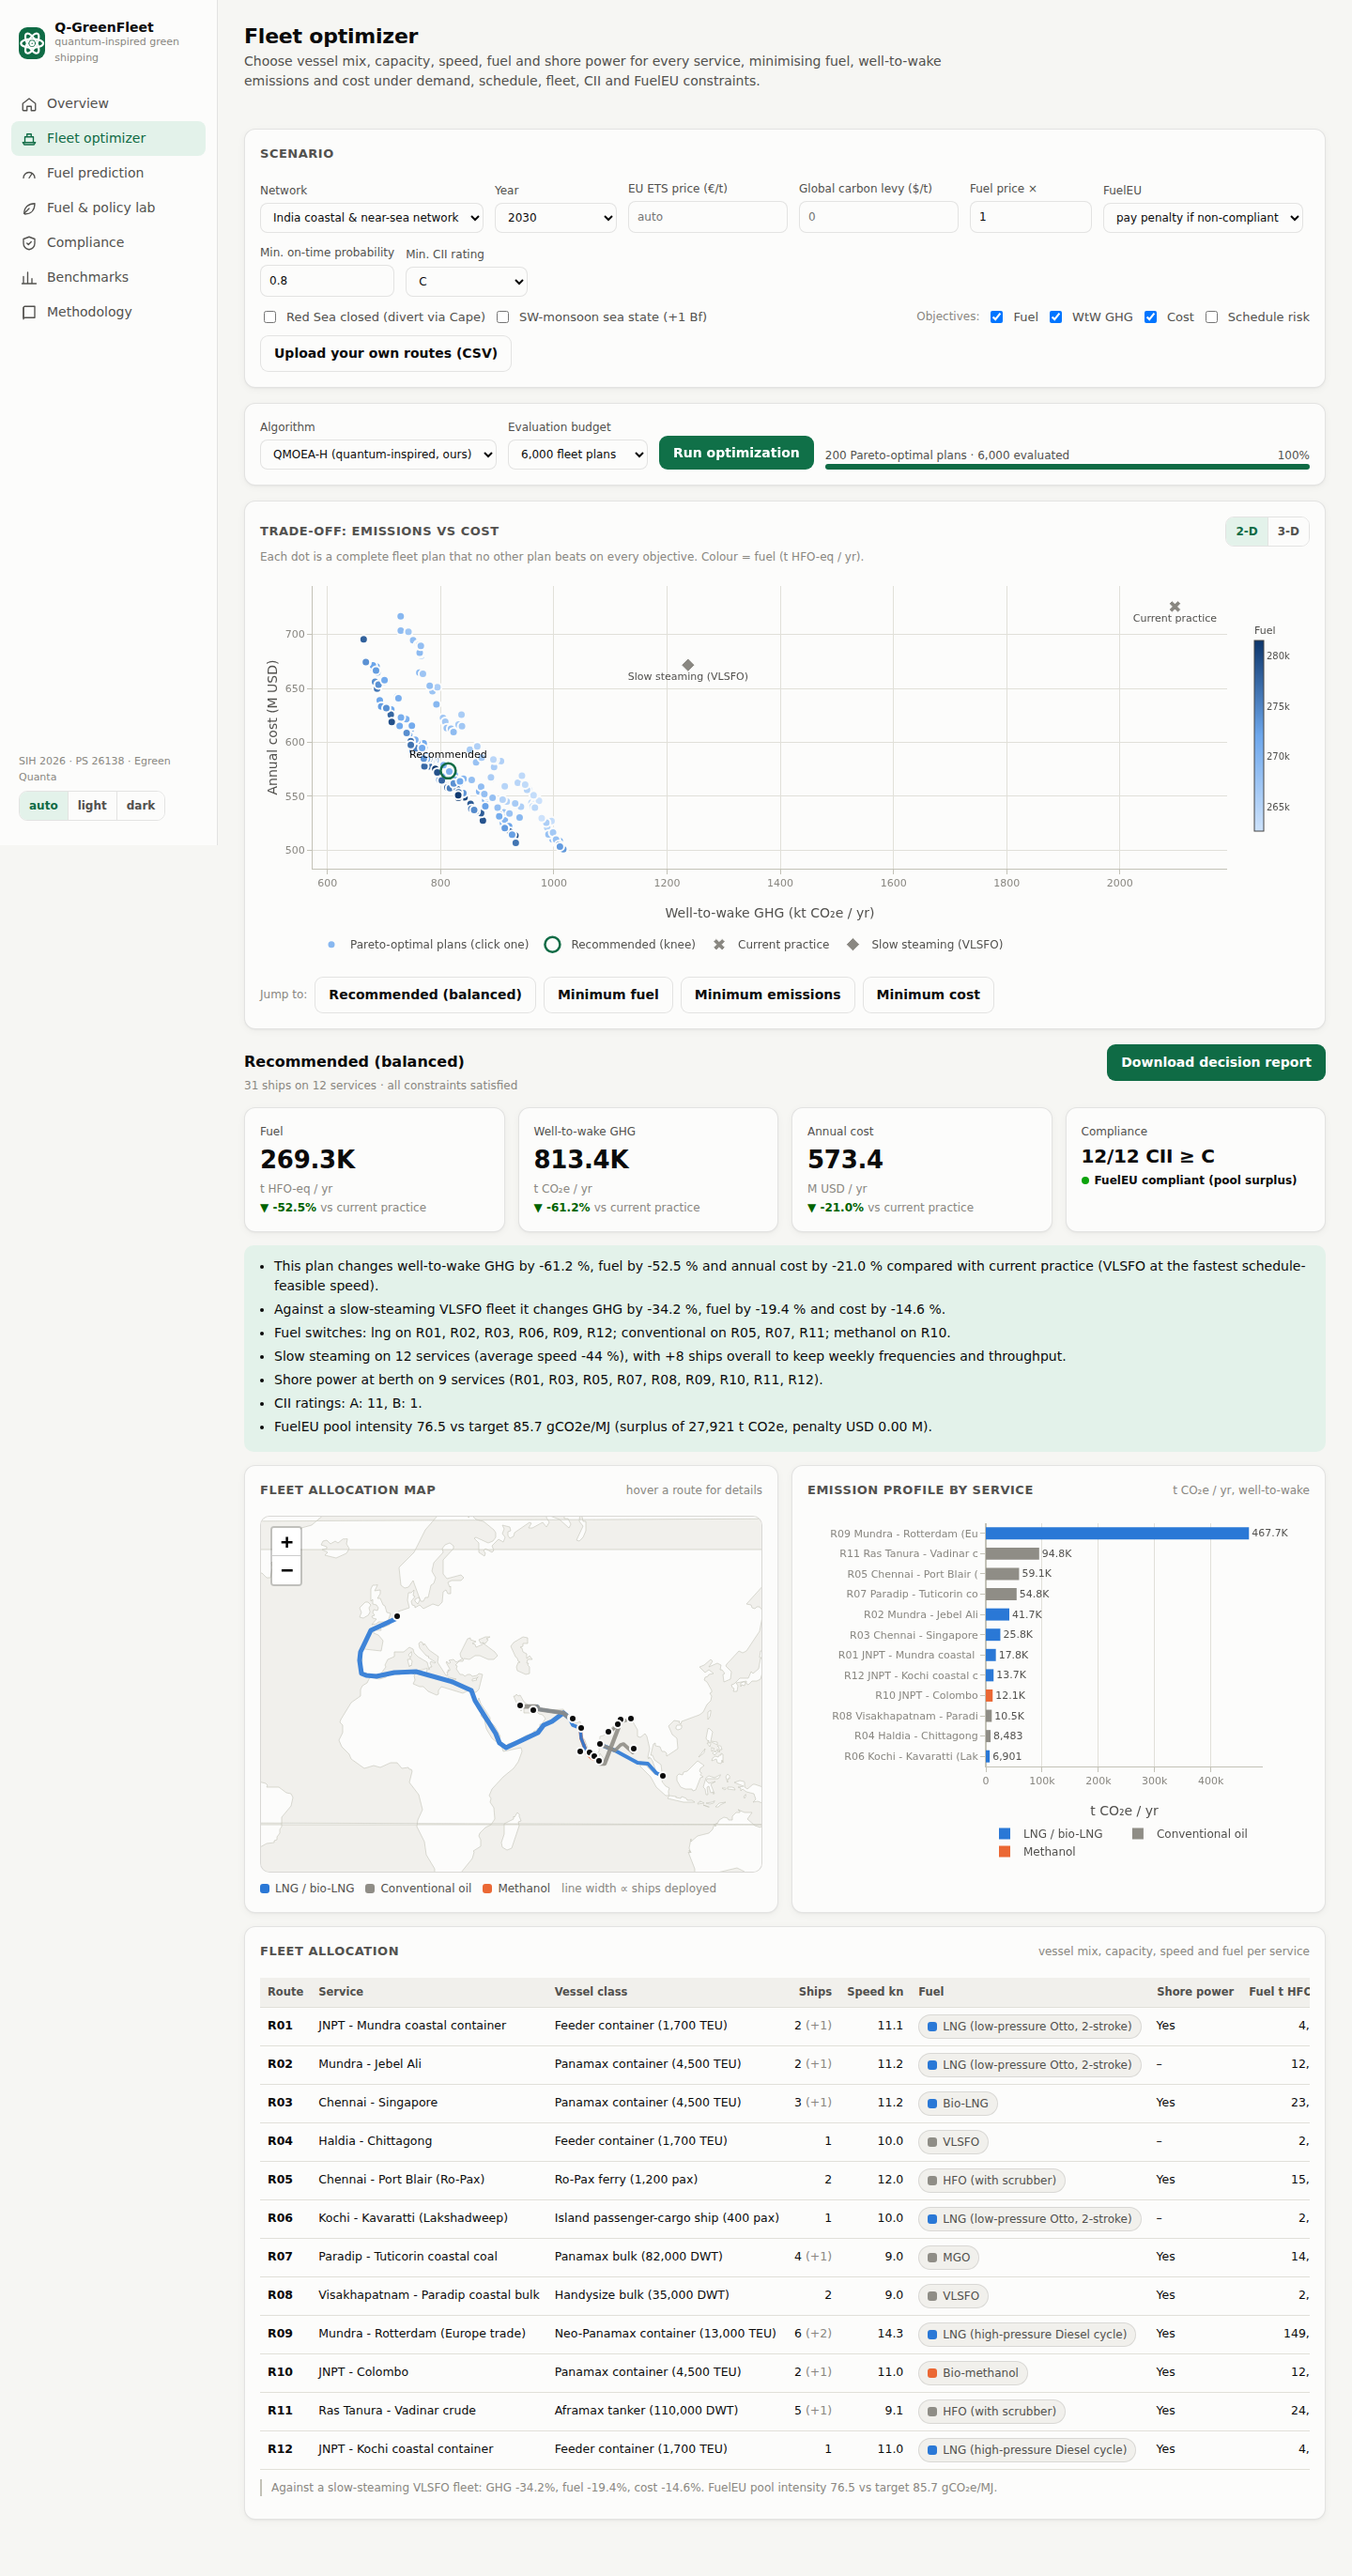
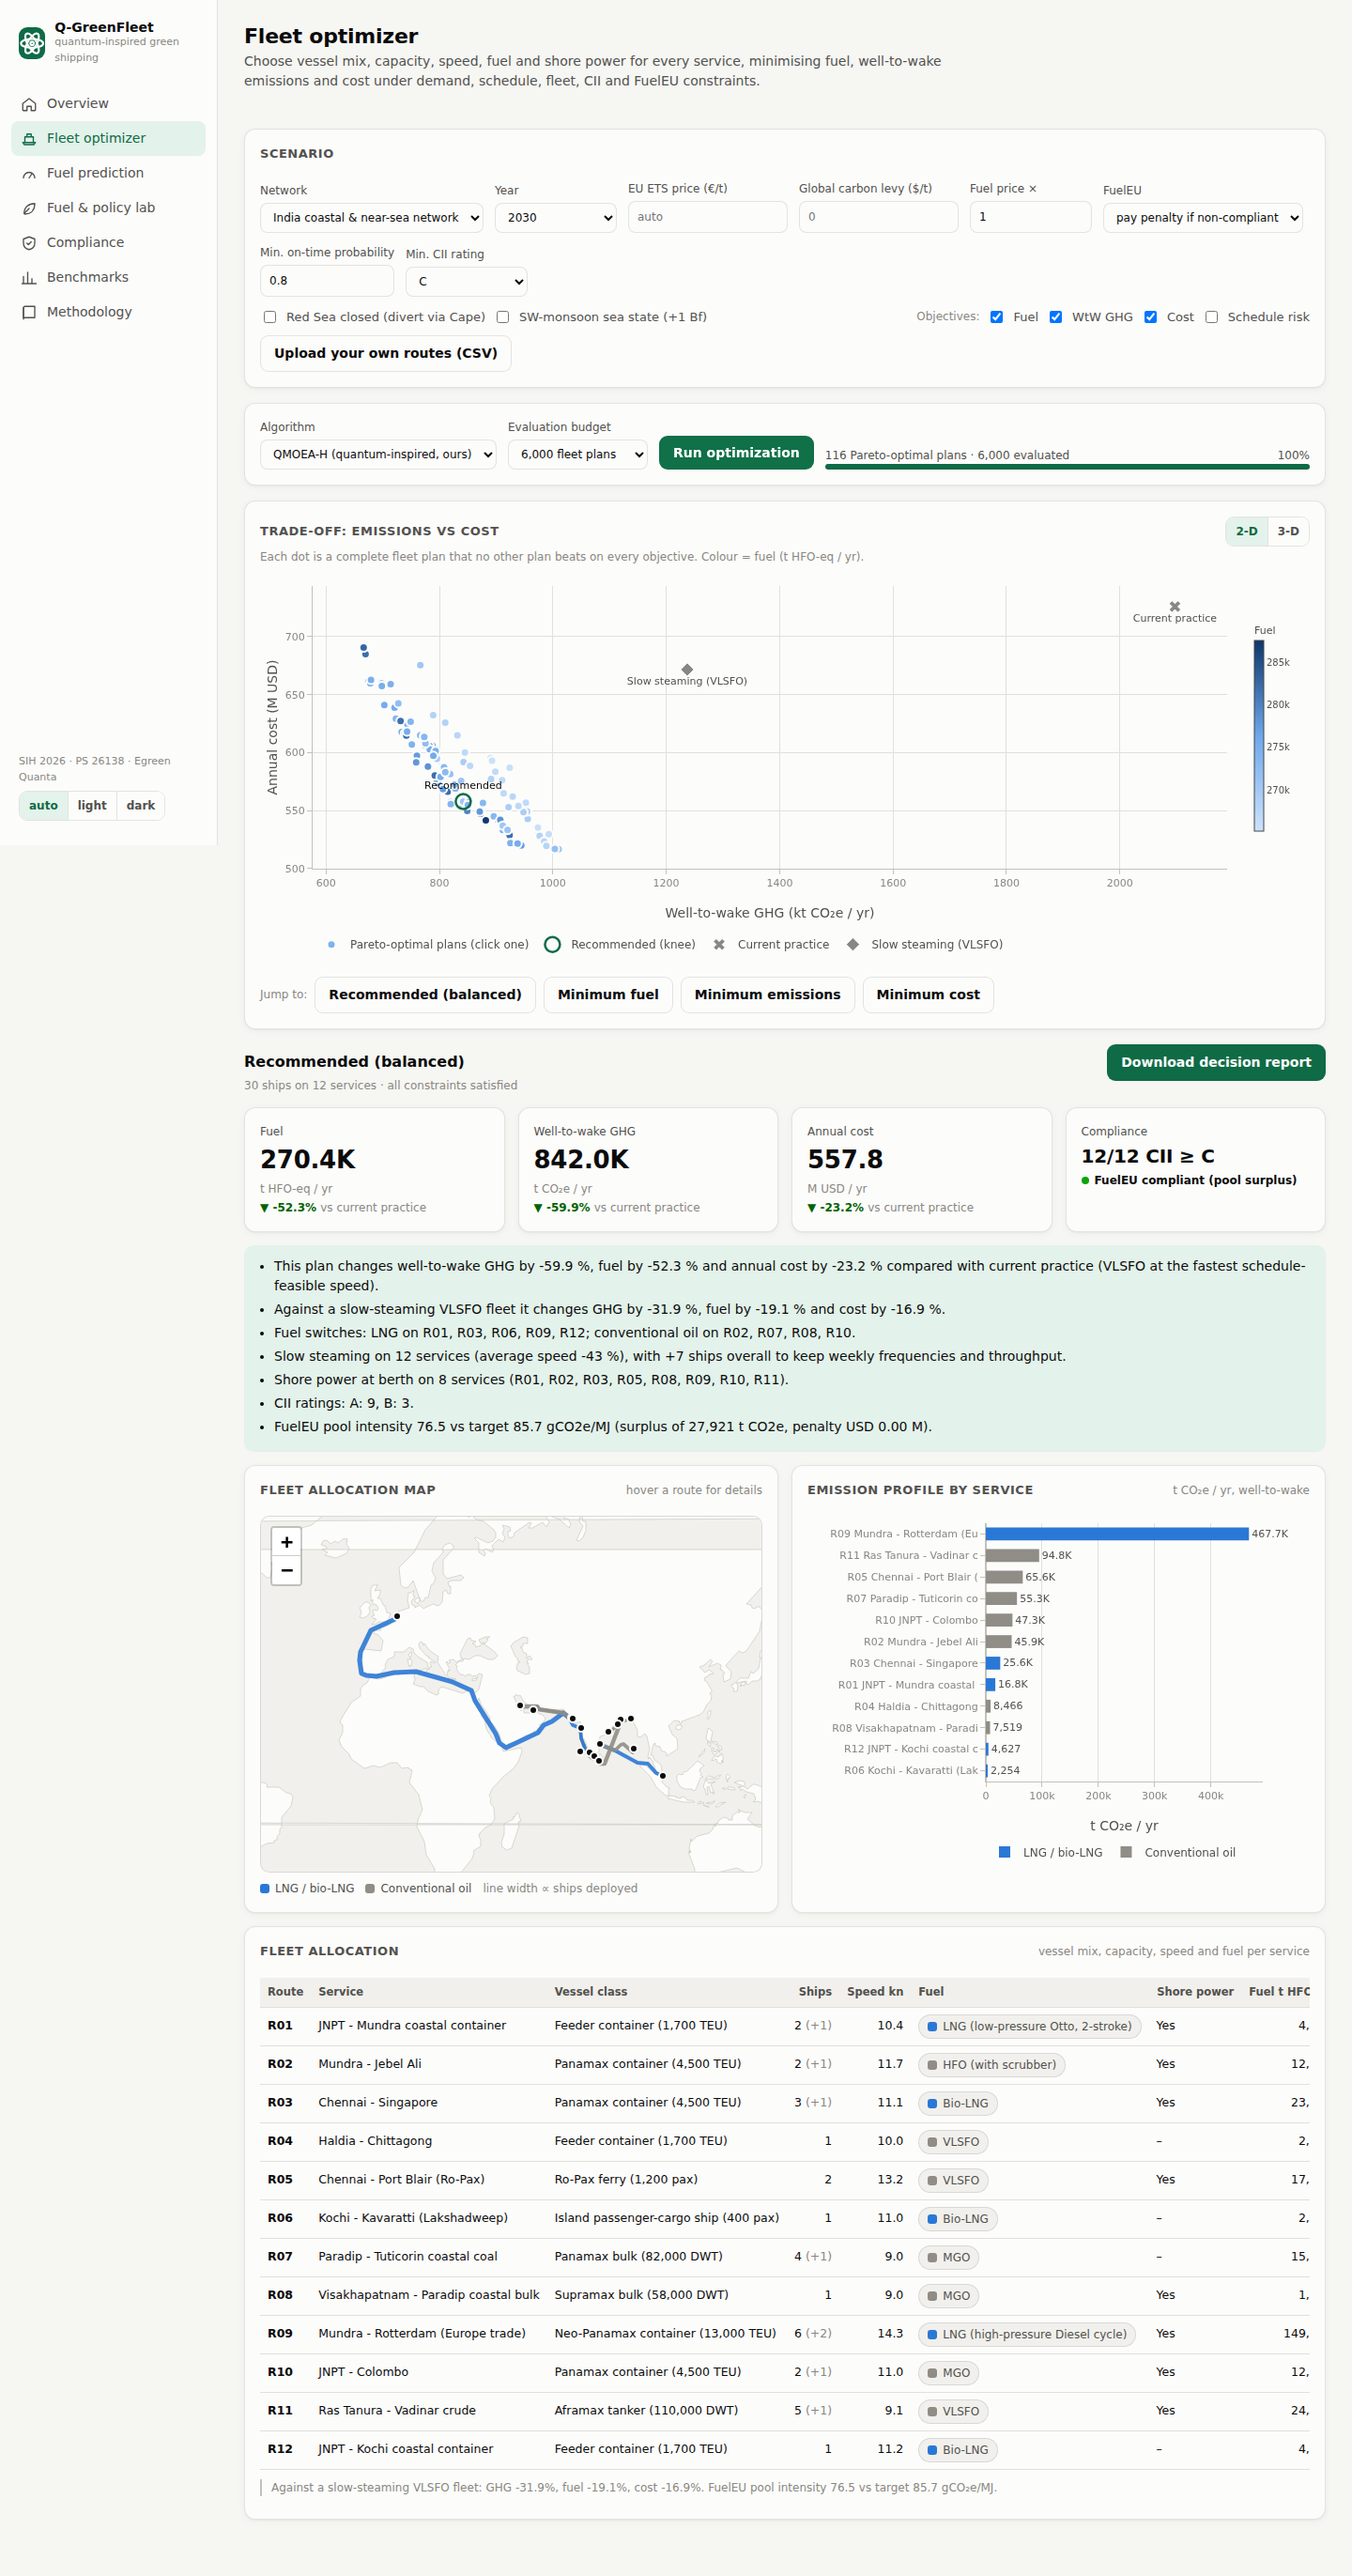
Fix NSGA-III colour clash; show hypervolume in scalability table
- algoColor matched by prefix, so NSGA-III took NSGA-II's colour in
  every benchmark chart and table; match the algorithm name exactly
- Benchmarks page scalability table gains a hypervolume column
- README and algorithms doc state the scalability-sweep result precisely
  (MOPSO ahead at 12, 50 and 100 routes; QMOEA-H at 25)
- Refreshed dashboard screenshots

Claude-Session: https://claude.ai/code/session_01LireC5r7ebd4Q4MviXgWuL

diff --git a/frontend/src/pages/Benchmarks.tsx b/frontend/src/pages/Benchmarks.tsx
@@ -105,7 +105,7 @@ export default function Benchmarks() {
           </div>
           {opt.scalability && (
             <div className="card">
-              <div className="card-head"><div><h3>Scalability</h3><p className="muted small">Synthetic networks on real ports; wall time per run and cost gap vs the exact single-objective MILP.</p></div></div>
+              <div className="card-head"><div><h3>Scalability</h3><p className="muted small">Synthetic networks on real ports, one run per size: hypervolume, cost gap vs the exact single-objective MILP, and wall time.</p></div></div>
               <div className="grid cols-2">
                 <Plot ariaLabel="Scalability wall time" height={300} data={[
                   ...Object.keys(opt.scalability.rows[0].algorithms).map((name) => ({
@@ -115,10 +115,10 @@ export default function Benchmarks() {
                   { type: "scatter" as const, mode: "lines+markers" as const, name: "MILP (min cost)", x: opt.scalability.rows.map((r: any) => r.routes),
                     y: opt.scalability.rows.map((r: any) => r.milp_min_cost_seconds), line: { color: t["text-muted"], width: 1.5, dash: "dot" } },
                 ]} layout={{ xaxis: { title: { text: "routes" } }, yaxis: { title: { text: "seconds" } } }} />
-                <table><thead><tr><th className="n">Routes</th><th className="n">Ships</th><th>Algorithm</th><th className="n">cost gap %</th><th className="n">s</th></tr></thead>
+                <table><thead><tr><th className="n">Routes</th><th className="n">Ships</th><th>Algorithm</th><th className="n">HV</th><th className="n">cost gap %</th><th className="n">s</th></tr></thead>
                   <tbody>{opt.scalability.rows.flatMap((r: any) => Object.entries(r.algorithms as Record<string, any>).map(([n, a]) => (
                     <tr key={r.routes + n} className={n.includes("ours") ? "hl" : ""}><td className="n">{r.routes}</td><td className="n">{r.ships_available}</td><td>{n}</td>
-                      <td className="n">{a.cost_gap_pct_vs_milp?.toFixed(2) ?? "–"}</td><td className="n">{a.seconds_mean.toFixed(1)}</td></tr>)))}</tbody></table>
+                      <td className="n">{a.hv_mean.toFixed(2)}</td><td className="n">{a.cost_gap_pct_vs_milp?.toFixed(2) ?? "–"}</td><td className="n">{a.seconds_mean.toFixed(1)}</td></tr>)))}</tbody></table>
               </div>
             </div>
           )}

diff --git a/frontend/src/lib/theme.ts b/frontend/src/lib/theme.ts
@@ -41,6 +41,6 @@ export const ALGO_SLOT: Record<string, string> = {
   MOQPSO: "series-5", SPEA2: "series-6", "QMOEA-R": "series-7", "MOEA/D": "series-8", Random: "neutral-series",
 };
 export function algoColor(t: ThemeTokens, name: string): string {
-  const key = Object.keys(ALGO_SLOT).find((k) => name.startsWith(k));
-  return t[key ? ALGO_SLOT[key] : "neutral-series"];
+  // exact match on the first token: a prefix match would give NSGA-III the NSGA-II colour
+  return t[ALGO_SLOT[name.split(" ")[0]] ?? "neutral-series"];
 }

diff --git a/README.md b/README.md
@@ -62,9 +62,10 @@ Friedman tests: p = 0.004 (India) and p = 0.016 (EU), with QMOEA-H ranked first 
 Our from-scratch path-integral SQA has the best median gap in 4 of 6 cases; OpenJij SQA edges it on India min-cost
 (effectively a tie) and on EU balanced.
 
-**Where QMOEA-H loses**: on loosely constrained synthetic networks with 50–100 routes, classical MOPSO converges
-further within the same budget (hypervolume 0.71 vs 0.15 at 50 routes). This is listed as future work in
-[docs/algorithms.md](docs/algorithms.md).
+**Where QMOEA-H loses**: in the scalability sweep (loosely constrained synthetic networks, one run per size), classical
+MOPSO reaches a higher hypervolume at 12, 50 and 100 routes (0.71 vs 0.15 at 50 routes) and a smaller cost gap to the MILP
+at 50 and 100 routes. QMOEA-H leads only at 25 routes, and its wall time per evaluation is 2–4× that of MOPSO. This is listed as
+future work in [docs/algorithms.md](docs/algorithms.md).
 
 **Impact (India 2030 recommended plan)**: about −60 % WtW GHG, −50 % fuel and −20 % cost vs current practice, with all
 CII, FuelEU and schedule constraints met. Against an already slow-steaming VLSFO fleet: about −34 % GHG and −15 % cost.

diff --git a/docs/algorithms.md b/docs/algorithms.md
@@ -108,8 +108,9 @@ it reaches HV ≈ 0.52.
 100 routes. A pure 1/n rule starves large networks of exploration. The final rule grows exploration and local tunnelling
 sub-linearly with the number of routes (as listed above), and leaves 12-route behaviour unchanged.
 
-**Known limitation.** On loosely constrained synthetic networks with 50–100 routes, classical MOPSO converges
-further within the same budget (higher hypervolume, smaller cost gap to the MILP). QMOEA-H remains ahead on:
+**Known limitation.** In the scalability sweep (loosely constrained synthetic networks, one run per size), classical
+MOPSO reaches a higher hypervolume at 12, 50 and 100 routes and a smaller cost gap to the MILP at 50 and 100 routes;
+QMOEA-H leads only at 25 routes. QMOEA-H remains ahead on:
 - the real case-study networks (India, EU),
 - the exact-gap comparison,
 - the tightly constrained 100-route network, where it is the only method feasible in every seed.
